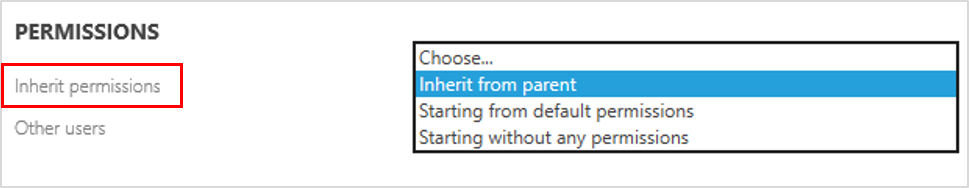
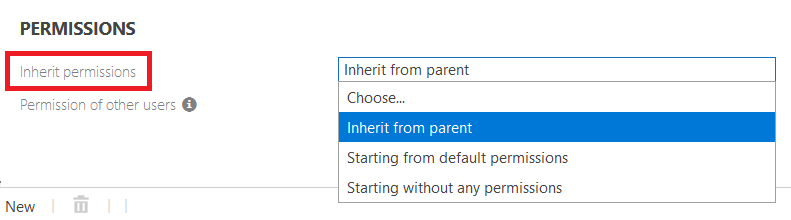
Origin/37414 check and enhance documentation (#194)
* Names of permission features are updated

* changes are made to adapt the new feature permissions directly on process/object

* changes are made to fix, kindly rerview

* fix

* back to previous order

diff --git a/docs/admin/administration/permissions/permissions-maintenance-extension.md b/docs/admin/administration/permissions/permissions-maintenance-extension.md
@@ -6,7 +6,7 @@ The following picture illustrates the comparison of the standard permission main
 
 For the general understanding of Symbio Application roles and Permissions sets, please refer to [Permissions - Introduction](https://docs.symbioworld.com/admin/administration/permissions/permissions/).
 
-## Ho to maintain permissions with the extension feature
+## How to maintain permissions with the extension feature
 
 ### 1. Select process or object
 
@@ -39,15 +39,21 @@ granted from scratch. The Symbio standard application roles will not be consider
 
 ![screen](./media/permissions_otherusers.png)
 
-Regarding the effect on other users, there are two possibilities:
+Regarding the effect on other users, there are two possibilities to set inside the attribute "Permission of other users":
 
-- __Other users have no permissions__: These permissions are exclusively set for a specific user or user group. Other users have no access to the selected process or object.
+- __permission set without any permissions__: In this case you may select a permission set without any mermissions, see image below; therfore, if the selected process/object is starting without any permissions and you select a permission set without any permissions then other users have no access to the selected process/object.
 
     Example: A new branch in the process structure should only be available for a newly set up project team (user group). The remaining employees of the company should not have access, not even Viewer rights.
 
-- __Permissions of other users unchanged__: Already granted permissions of other users remain unaffected.
+![screen](./media/no_permissionsset.png)
+
+- __no permission sets at all__: In this case you may select a permission set without any mermissions, see image below; which means, if the process/object inherits from parent or starting from default permissions the granted permission of other users remains unaffected.
 
     Example: The permissions of a new branch in the process structure should be differentiated for specific users or user groups. The existing access rights (e.g. Viewer rights) of the remaining employees remain unchanged.
+
+In other words, based on the "Inherit permissions" selection, the Permission of other users is:
+* either a limitation of other users permissions if "Inherit from parent" or "Starting from default permissions" is selected,
+* or an exact prescription of permissions if "Starting without any permissions" is selected.
 
 ### 3. Create specific permission types
 
@@ -75,7 +81,7 @@ Please proceed as follows:
 
 3. Navigate to __Process House__ and set up a new Category or Main Process "HR" (or just select, if existent). 
 
-4. Select __Change permissions__ in the Toolbar; choose "Inherit from parent" and "Other users have no permissions" from dropdown.
+4. Select __Change permissions__ in the Toolbar; choose "Inherit from parent" from dropdown and select a permission set without any permissions (please create if not existing).
 
 5. Create new __Permission types__, e.g. "Author permissions", and go to Detail Content to assign corresponding HR permission set as well as HR user or user group.
 
@@ -94,7 +100,7 @@ Please proceed as follows:
 
 3. Navigate to __Process House__ and set up a new Category "Project XY" (or just select, if existent). 
 
-4. Select __Change permissions__ in the Toolbar; choose "Inherit from parent" and "Permissions of other users unchanged" from dropdown.
+4. Select __Change permissions__ in the Toolbar; choose "Inherit from parent" from dropdown and do not select any permissions set at all.
 
 5. Create new __Permission types__, e.g. "External Viewer permissions", and go to Detail Content to assign corresponding External permission set as well as External user or user group.
 

diff --git a/docs/admin/administration/permissions/permission-levels-explained.md b/docs/admin/administration/permissions/permission-levels-explained.md
@@ -11,9 +11,10 @@ Symbio supports several permission levels. Some of them are available as feature
 * __Delete element__: If this permission level is granted, a user can delete existing elements.
 * __Approve element__: If this permission level is granted, a user can approve changes to an element.
 
+
 These permission levels are context-sensitive, e.g. you need to be able to switch into "Editor" mode (i.e. you also need at least the role "Editor") to utilize granted Edit/New/Delete/Approve permissions, and they only affect non-architectural elements.
 
-To affect architectural elements you either need to be at least assigned to the role "Architect", or have the feature "Architectural Permissions" activated _and_ and appropriate permission levels assigned (see below).
+To affect architectural elements you either need to be at least assigned to the role "Architect", or have the feature "Permissions for architectures" activated _and_ appropriate permission levels assigned (see below).
 
 ### Included Permissions
 
@@ -26,7 +27,8 @@ To affect architectural elements you either need to be at least assigned to the 
 | Delete element   | show, open       |
 | Approve element  | show, open       |
 
-## Architectural Permissions
+
+## Permissions for architectures
 
 These permissions affect architectural elements, e.g. Process House, Sub Categories, Main Processes, Risk Domains, etc.
 
@@ -42,14 +44,14 @@ These permissions affect architectural elements, e.g. Process House, Sub Categor
 | New architectural element    | edit                   | show, open, edit, new |
 | Delete architectural element | -                      | show, open, delete    |
 
-### Activating the Feature "Architectural Permissions"
+### Activating the Feature "Permissions for architectures"
 
 __You need to be an Administrator to activate this feature.__
 
 * Go to the Admin area in Symbio and click on "Features":
   ![](media/activating-feature-architectural-permissions-1.png)
 
-* Select "Architectural Permissions" and change "Activation" to "Activated":
+* Select "Permissions for architectures" and change "Activation" to "Activated":
   ![](media/activating-feature-architectural-permissions-2.png)
 
 _Please note the consequences of activating this feature; read the explanation under "Activation" carefully._
